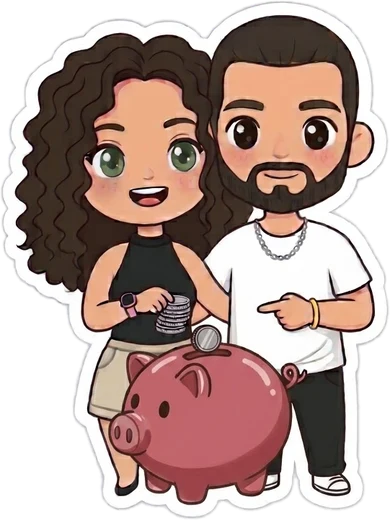
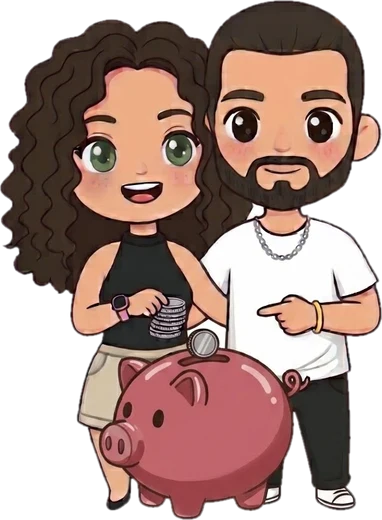
Imágenes del inicio sin fondo ni borde blanco
Claude-Session: https://claude.ai/code/session_01LMZK85bQ5JCHh7utCTGme3

diff --git a/index.html b/index.html
@@ -12,7 +12,7 @@
 <title>Nuestras apps</title>
 <script src="tema.js"></script>
 <script src="firebase-config.js"></script>
-<link rel="preload" as="image" href="img/inventario.webp">
+<link rel="preload" as="image" href="img/inventario.webp?v=2">
 <link rel="stylesheet" href="https://cdn.jsdelivr.net/npm/@tabler/icons-webfont@3.19.0/dist/tabler-icons.min.css">
 <link href="https://fonts.googleapis.com/css2?family=DM+Sans:wght@400;500;600;700&display=swap" rel="stylesheet">
 <style>
@@ -37,7 +37,7 @@
   a.card:hover{box-shadow:0 6px 18px rgba(0,0,0,.08)}
   a.card:active{transform:scale(.98)}
   a.card:focus-visible,.gear:focus-visible{outline:3px solid var(--accent);outline-offset:2px}
-  .pic{width:118px;height:132px;flex-shrink:0;border-radius:16px;background:var(--accent-light);
+  .pic{width:118px;height:132px;flex-shrink:0;
        display:flex;align-items:flex-end;justify-content:center;overflow:hidden}
   .pic img{max-width:100%;max-height:100%;object-fit:contain;display:block;padding-top:6px}
   .txt{flex:1;min-width:0}
@@ -103,17 +103,17 @@
   </header>
   <nav class="grid">
     <a class="card" href="inventario.html">
-      <div class="pic"><img src="img/inventario.webp" alt="" width="520" height="513"></div>
+      <div class="pic"><img src="img/inventario.webp?v=2" alt="" width="520" height="513"></div>
       <div class="txt"><b>Inventario</b><span>Escáner, stock y categorías</span></div>
       <div class="go" aria-hidden="true">›</div>
     </a>
     <a class="card" href="ahorros.html">
-      <div class="pic"><img src="img/ahorros.webp" alt="" width="390" height="520"></div>
+      <div class="pic"><img src="img/ahorros.webp?v=2" alt="" width="382" height="520"></div>
       <div class="txt"><b>Ahorros</b><span>Plata por mes, de a dos</span></div>
       <div class="go" aria-hidden="true">›</div>
     </a>
     <a class="card" href="vacaciones.html">
-      <div class="pic"><img src="img/vacaciones.webp" alt="" width="399" height="520"></div>
+      <div class="pic"><img src="img/vacaciones.webp?v=2" alt="" width="399" height="520"></div>
       <div class="txt"><b>Vacaciones</b><span>Presupuesto, gastos y ruta</span></div>
       <div class="go" aria-hidden="true">›</div>
     </a>
